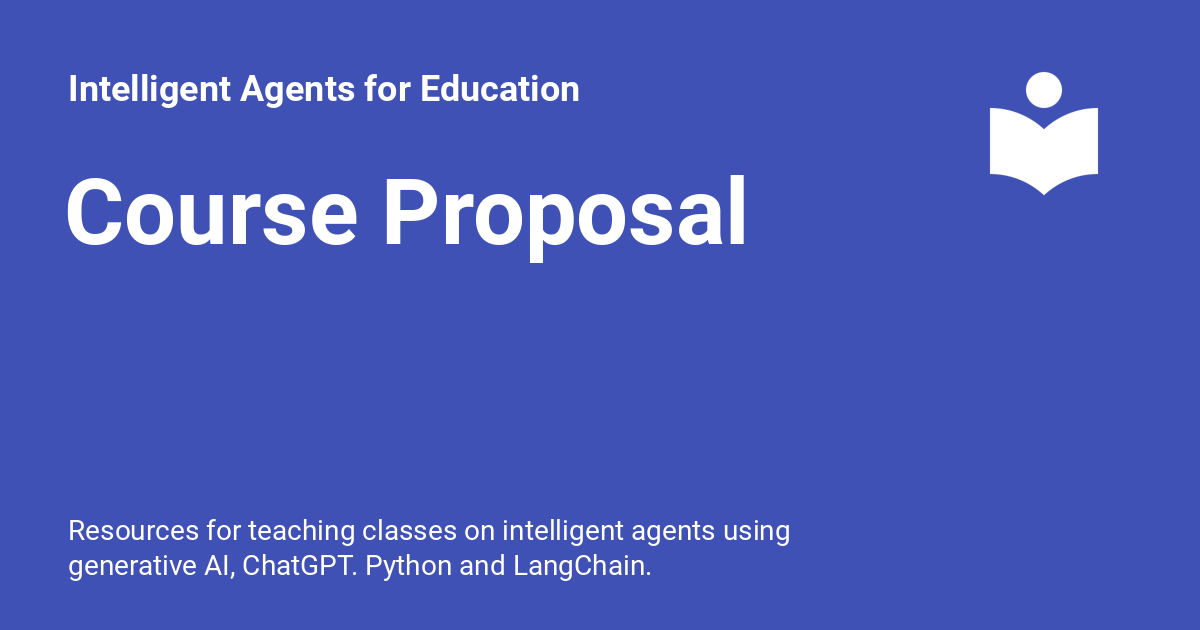
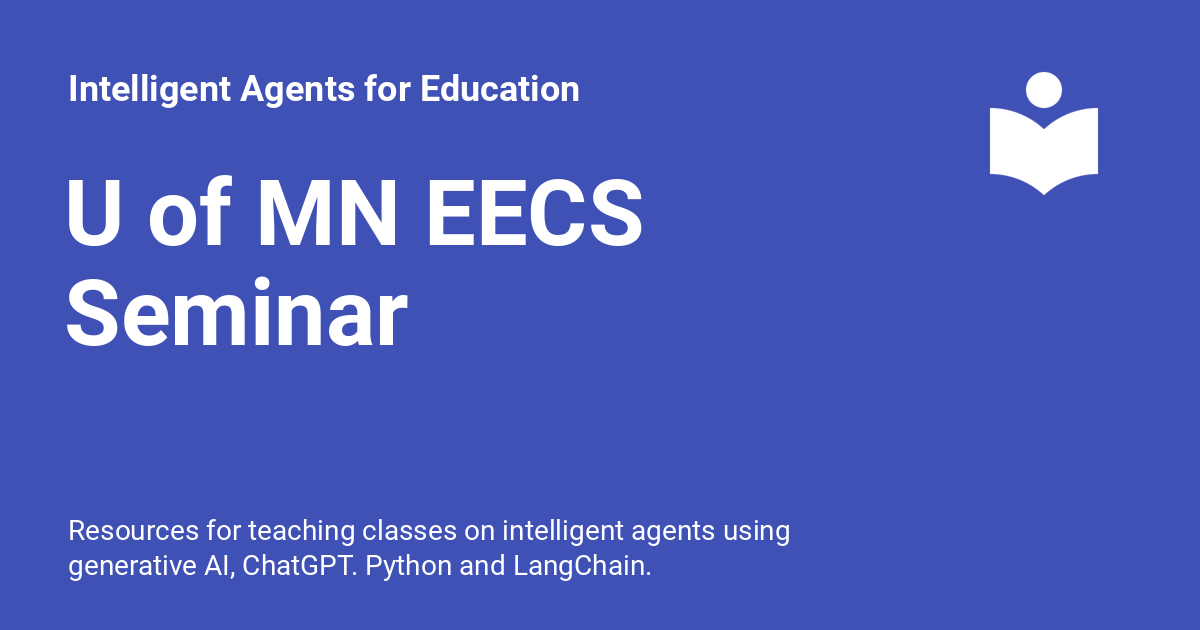
Deployed c197b2f with MkDocs version: 1.5.3

Changed region(s): [[0.0617, 0.2714, 0.6475, 0.4222], [0.0308, 0.4222, 0.3392, 0.573]]

diff --git a/u-of-mn-eecs-course/index.html b/u-of-mn-eecs-course/index.html
@@ -15,6 +15,10 @@
         <link rel="canonical" href="https://dmccreary.github.io/learn-langchain/u-of-mn-eecs-course/">
       
       
+        <link rel="prev" href="../school-agent-process/">
+      
+      
+        <link rel="next" href="../advanced-topics/">
       
       
       <link rel="icon" href="../assets/images/favicon.png">
@@ -22,7 +26,7 @@
     
     
       
-        <title>Course Proposal - Intelligent Agents for Education</title>
+        <title>U of MN EECS Seminar - Intelligent Agents for Education</title>
       
     
     
@@ -64,7 +68,7 @@
       
         <meta  property="og:type"  content="website" >
       
-        <meta  property="og:title"  content="Course Proposal - Intelligent Agents for Education" >
+        <meta  property="og:title"  content="U of MN EECS Seminar - Intelligent Agents for Education" >
       
         <meta  property="og:description"  content="Resources for teaching classes on intelligent agents using generative AI, ChatGPT. Python and LangChain." >
       
@@ -80,7 +84,7 @@
       
         <meta  name="twitter:card"  content="summary_large_image" >
       
-        <meta  name="twitter:title"  content="Course Proposal - Intelligent Agents for Education" >
+        <meta  name="twitter:title"  content="U of MN EECS Seminar - Intelligent Agents for Education" >
       
         <meta  name="twitter:description"  content="Resources for teaching classes on intelligent agents using generative AI, ChatGPT. Python and LangChain." >
       
@@ -139,7 +143,7 @@
         <div class="md-header__topic" data-md-component="header-topic">
           <span class="md-ellipsis">
             
-              Course Proposal
+              U of MN EECS Seminar
             
           </span>
         </div>
@@ -403,9 +407,29 @@
       
   
   
+    
   
-    <li class="md-nav__item">
-      <a href="../u-of-MN-eecs-course.md" class="md-nav__link">
+  
+    <li class="md-nav__item md-nav__item--active">
+      
+      <input class="md-nav__toggle md-toggle" type="checkbox" id="__toc">
+      
+      
+        
+      
+      
+        <label class="md-nav__link md-nav__link--active" for="__toc">
+          
+  
+  <span class="md-ellipsis">
+    U of MN EECS Seminar
+  </span>
+  
+
+          <span class="md-nav__icon md-icon"></span>
+        </label>
+      
+      <a href="./" class="md-nav__link md-nav__link--active">
         
   
   <span class="md-ellipsis">
@@ -414,6 +438,61 @@
   
 
       </a>
+      
+        
+
+<nav class="md-nav md-nav--secondary" aria-label="Table of contents">
+  
+  
+  
+    
+  
+  
+    <label class="md-nav__title" for="__toc">
+      <span class="md-nav__icon md-icon"></span>
+      Table of contents
+    </label>
+    <ul class="md-nav__list" data-md-component="toc" data-md-scrollfix>
+      
+        <li class="md-nav__item">
+  <a href="#student-prerequisites" class="md-nav__link">
+    Student Prerequisites
+  </a>
+  
+</li>
+      
+        <li class="md-nav__item">
+  <a href="#process" class="md-nav__link">
+    Process
+  </a>
+  
+</li>
+      
+        <li class="md-nav__item">
+  <a href="#responsibility-of-dan-mccreary" class="md-nav__link">
+    Responsibility of Dan McCreary
+  </a>
+  
+</li>
+      
+        <li class="md-nav__item">
+  <a href="#learning-objectives" class="md-nav__link">
+    Learning Objectives
+  </a>
+  
+</li>
+      
+        <li class="md-nav__item">
+  <a href="#assessment" class="md-nav__link">
+    Assessment
+  </a>
+  
+</li>
+      
+    </ul>
+  
+</nav>
+      
     </li>
   
 
@@ -711,6 +790,44 @@ portion of the assessment will be made on the quality of this website.</p>
       
         <footer class="md-footer">
   
+    
+      
+      <nav class="md-footer__inner md-grid" aria-label="Footer" >
+        
+          
+          <a href="../school-agent-process/" class="md-footer__link md-footer__link--prev" aria-label="Previous: School Agent Process" rel="prev">
+            <div class="md-footer__button md-icon">
+              
+              <svg xmlns="http://www.w3.org/2000/svg" viewBox="0 0 24 24"><path d="M20 11v2H8l5.5 5.5-1.42 1.42L4.16 12l7.92-7.92L13.5 5.5 8 11h12Z"/></svg>
+            </div>
+            <div class="md-footer__title">
+              <span class="md-footer__direction">
+                Previous
+              </span>
+              <div class="md-ellipsis">
+                School Agent Process
+              </div>
+            </div>
+          </a>
+        
+        
+          
+          <a href="../advanced-topics/" class="md-footer__link md-footer__link--next" aria-label="Next: Advanced Topics" rel="next">
+            <div class="md-footer__title">
+              <span class="md-footer__direction">
+                Next
+              </span>
+              <div class="md-ellipsis">
+                Advanced Topics
+              </div>
+            </div>
+            <div class="md-footer__button md-icon">
+              
+              <svg xmlns="http://www.w3.org/2000/svg" viewBox="0 0 24 24"><path d="M4 11v2h12l-5.5 5.5 1.42 1.42L19.84 12l-7.92-7.92L10.5 5.5 16 11H4Z"/></svg>
+            </div>
+          </a>
+        
+      </nav>
     
   
   <div class="md-footer-meta md-typeset">

diff --git a/advanced-topics/index.html b/advanced-topics/index.html
@@ -15,7 +15,7 @@
         <link rel="canonical" href="https://dmccreary.github.io/learn-langchain/advanced-topics/">
       
       
-        <link rel="prev" href="../school-agent-process/">
+        <link rel="prev" href="../u-of-mn-eecs-course/">
       
       
         <link rel="next" href="../presentations/">
@@ -409,7 +409,7 @@
   
   
     <li class="md-nav__item">
-      <a href="../u-of-MN-eecs-course.md" class="md-nav__link">
+      <a href="../u-of-mn-eecs-course/" class="md-nav__link">
         
   
   <span class="md-ellipsis">
@@ -703,7 +703,7 @@ graph?</p>
       <nav class="md-footer__inner md-grid" aria-label="Footer" >
         
           
-          <a href="../school-agent-process/" class="md-footer__link md-footer__link--prev" aria-label="Previous: School Agent Process" rel="prev">
+          <a href="../u-of-mn-eecs-course/" class="md-footer__link md-footer__link--prev" aria-label="Previous: U of MN EECS Seminar" rel="prev">
             <div class="md-footer__button md-icon">
               
               <svg xmlns="http://www.w3.org/2000/svg" viewBox="0 0 24 24"><path d="M20 11v2H8l5.5 5.5-1.42 1.42L4.16 12l7.92-7.92L13.5 5.5 8 11h12Z"/></svg>
@@ -713,7 +713,7 @@ graph?</p>
                 Previous
               </span>
               <div class="md-ellipsis">
-                School Agent Process
+                U of MN EECS Seminar
               </div>
             </div>
           </a>

diff --git a/school-agent-process/index.html b/school-agent-process/index.html
@@ -18,7 +18,7 @@
         <link rel="prev" href="../lessons/langchain-in-13-minutes/">
       
       
-        <link rel="next" href="../advanced-topics/">
+        <link rel="next" href="../u-of-mn-eecs-course/">
       
       
       <link rel="icon" href="../assets/images/favicon.png">
@@ -526,7 +526,7 @@
   
   
     <li class="md-nav__item">
-      <a href="../u-of-MN-eecs-course.md" class="md-nav__link">
+      <a href="../u-of-mn-eecs-course/" class="md-nav__link">
         
   
   <span class="md-ellipsis">
@@ -911,13 +911,13 @@ to get a clear understanding of what can and can't be done with generative AI to
         
         
           
-          <a href="../advanced-topics/" class="md-footer__link md-footer__link--next" aria-label="Next: Advanced Topics" rel="next">
+          <a href="../u-of-mn-eecs-course/" class="md-footer__link md-footer__link--next" aria-label="Next: U of MN EECS Seminar" rel="next">
             <div class="md-footer__title">
               <span class="md-footer__direction">
                 Next
               </span>
               <div class="md-ellipsis">
-                Advanced Topics
+                U of MN EECS Seminar
               </div>
             </div>
             <div class="md-footer__button md-icon">

diff --git a/404.html b/404.html
@@ -372,7 +372,7 @@
   
   
     <li class="md-nav__item">
-      <a href="/learn-langchain/u-of-MN-eecs-course.md" class="md-nav__link">
+      <a href="/learn-langchain/u-of-mn-eecs-course/" class="md-nav__link">
         
   
   <span class="md-ellipsis">

diff --git a/lessons/01-hello-world/index.html b/lessons/01-hello-world/index.html
@@ -470,7 +470,7 @@
   
   
     <li class="md-nav__item">
-      <a href="../../u-of-MN-eecs-course.md" class="md-nav__link">
+      <a href="../../u-of-mn-eecs-course/" class="md-nav__link">
         
   
   <span class="md-ellipsis">

diff --git a/lessons/langchain-in-13-minutes/index.html b/lessons/langchain-in-13-minutes/index.html
@@ -563,7 +563,7 @@
   
   
     <li class="md-nav__item">
-      <a href="../../u-of-MN-eecs-course.md" class="md-nav__link">
+      <a href="../../u-of-mn-eecs-course/" class="md-nav__link">
         
   
   <span class="md-ellipsis">

diff --git a/setup/env-test/index.html b/setup/env-test/index.html
@@ -588,7 +588,7 @@
   
   
     <li class="md-nav__item">
-      <a href="../../u-of-MN-eecs-course.md" class="md-nav__link">
+      <a href="../../u-of-mn-eecs-course/" class="md-nav__link">
         
   
   <span class="md-ellipsis">

diff --git a/setup/jupyter-notebook/index.html b/setup/jupyter-notebook/index.html
@@ -537,7 +537,7 @@
   
   
     <li class="md-nav__item">
-      <a href="../../u-of-MN-eecs-course.md" class="md-nav__link">
+      <a href="../../u-of-mn-eecs-course/" class="md-nav__link">
         
   
   <span class="md-ellipsis">

diff --git a/setup/openai/index.html b/setup/openai/index.html
@@ -537,7 +537,7 @@
   
   
     <li class="md-nav__item">
-      <a href="../../u-of-MN-eecs-course.md" class="md-nav__link">
+      <a href="../../u-of-mn-eecs-course/" class="md-nav__link">
         
   
   <span class="md-ellipsis">

diff --git a/setup/pinecone/index.html b/setup/pinecone/index.html
@@ -588,7 +588,7 @@
   
   
     <li class="md-nav__item">
-      <a href="../../u-of-MN-eecs-course.md" class="md-nav__link">
+      <a href="../../u-of-mn-eecs-course/" class="md-nav__link">
         
   
   <span class="md-ellipsis">

diff --git a/setup/vscode/index.html b/setup/vscode/index.html
@@ -581,7 +581,7 @@
   
   
     <li class="md-nav__item">
-      <a href="../../u-of-MN-eecs-course.md" class="md-nav__link">
+      <a href="../../u-of-mn-eecs-course/" class="md-nav__link">
         
   
   <span class="md-ellipsis">

diff --git a/about/index.html b/about/index.html
@@ -470,7 +470,7 @@
   
   
     <li class="md-nav__item">
-      <a href="../u-of-MN-eecs-course.md" class="md-nav__link">
+      <a href="../u-of-mn-eecs-course/" class="md-nav__link">
         
   
   <span class="md-ellipsis">
